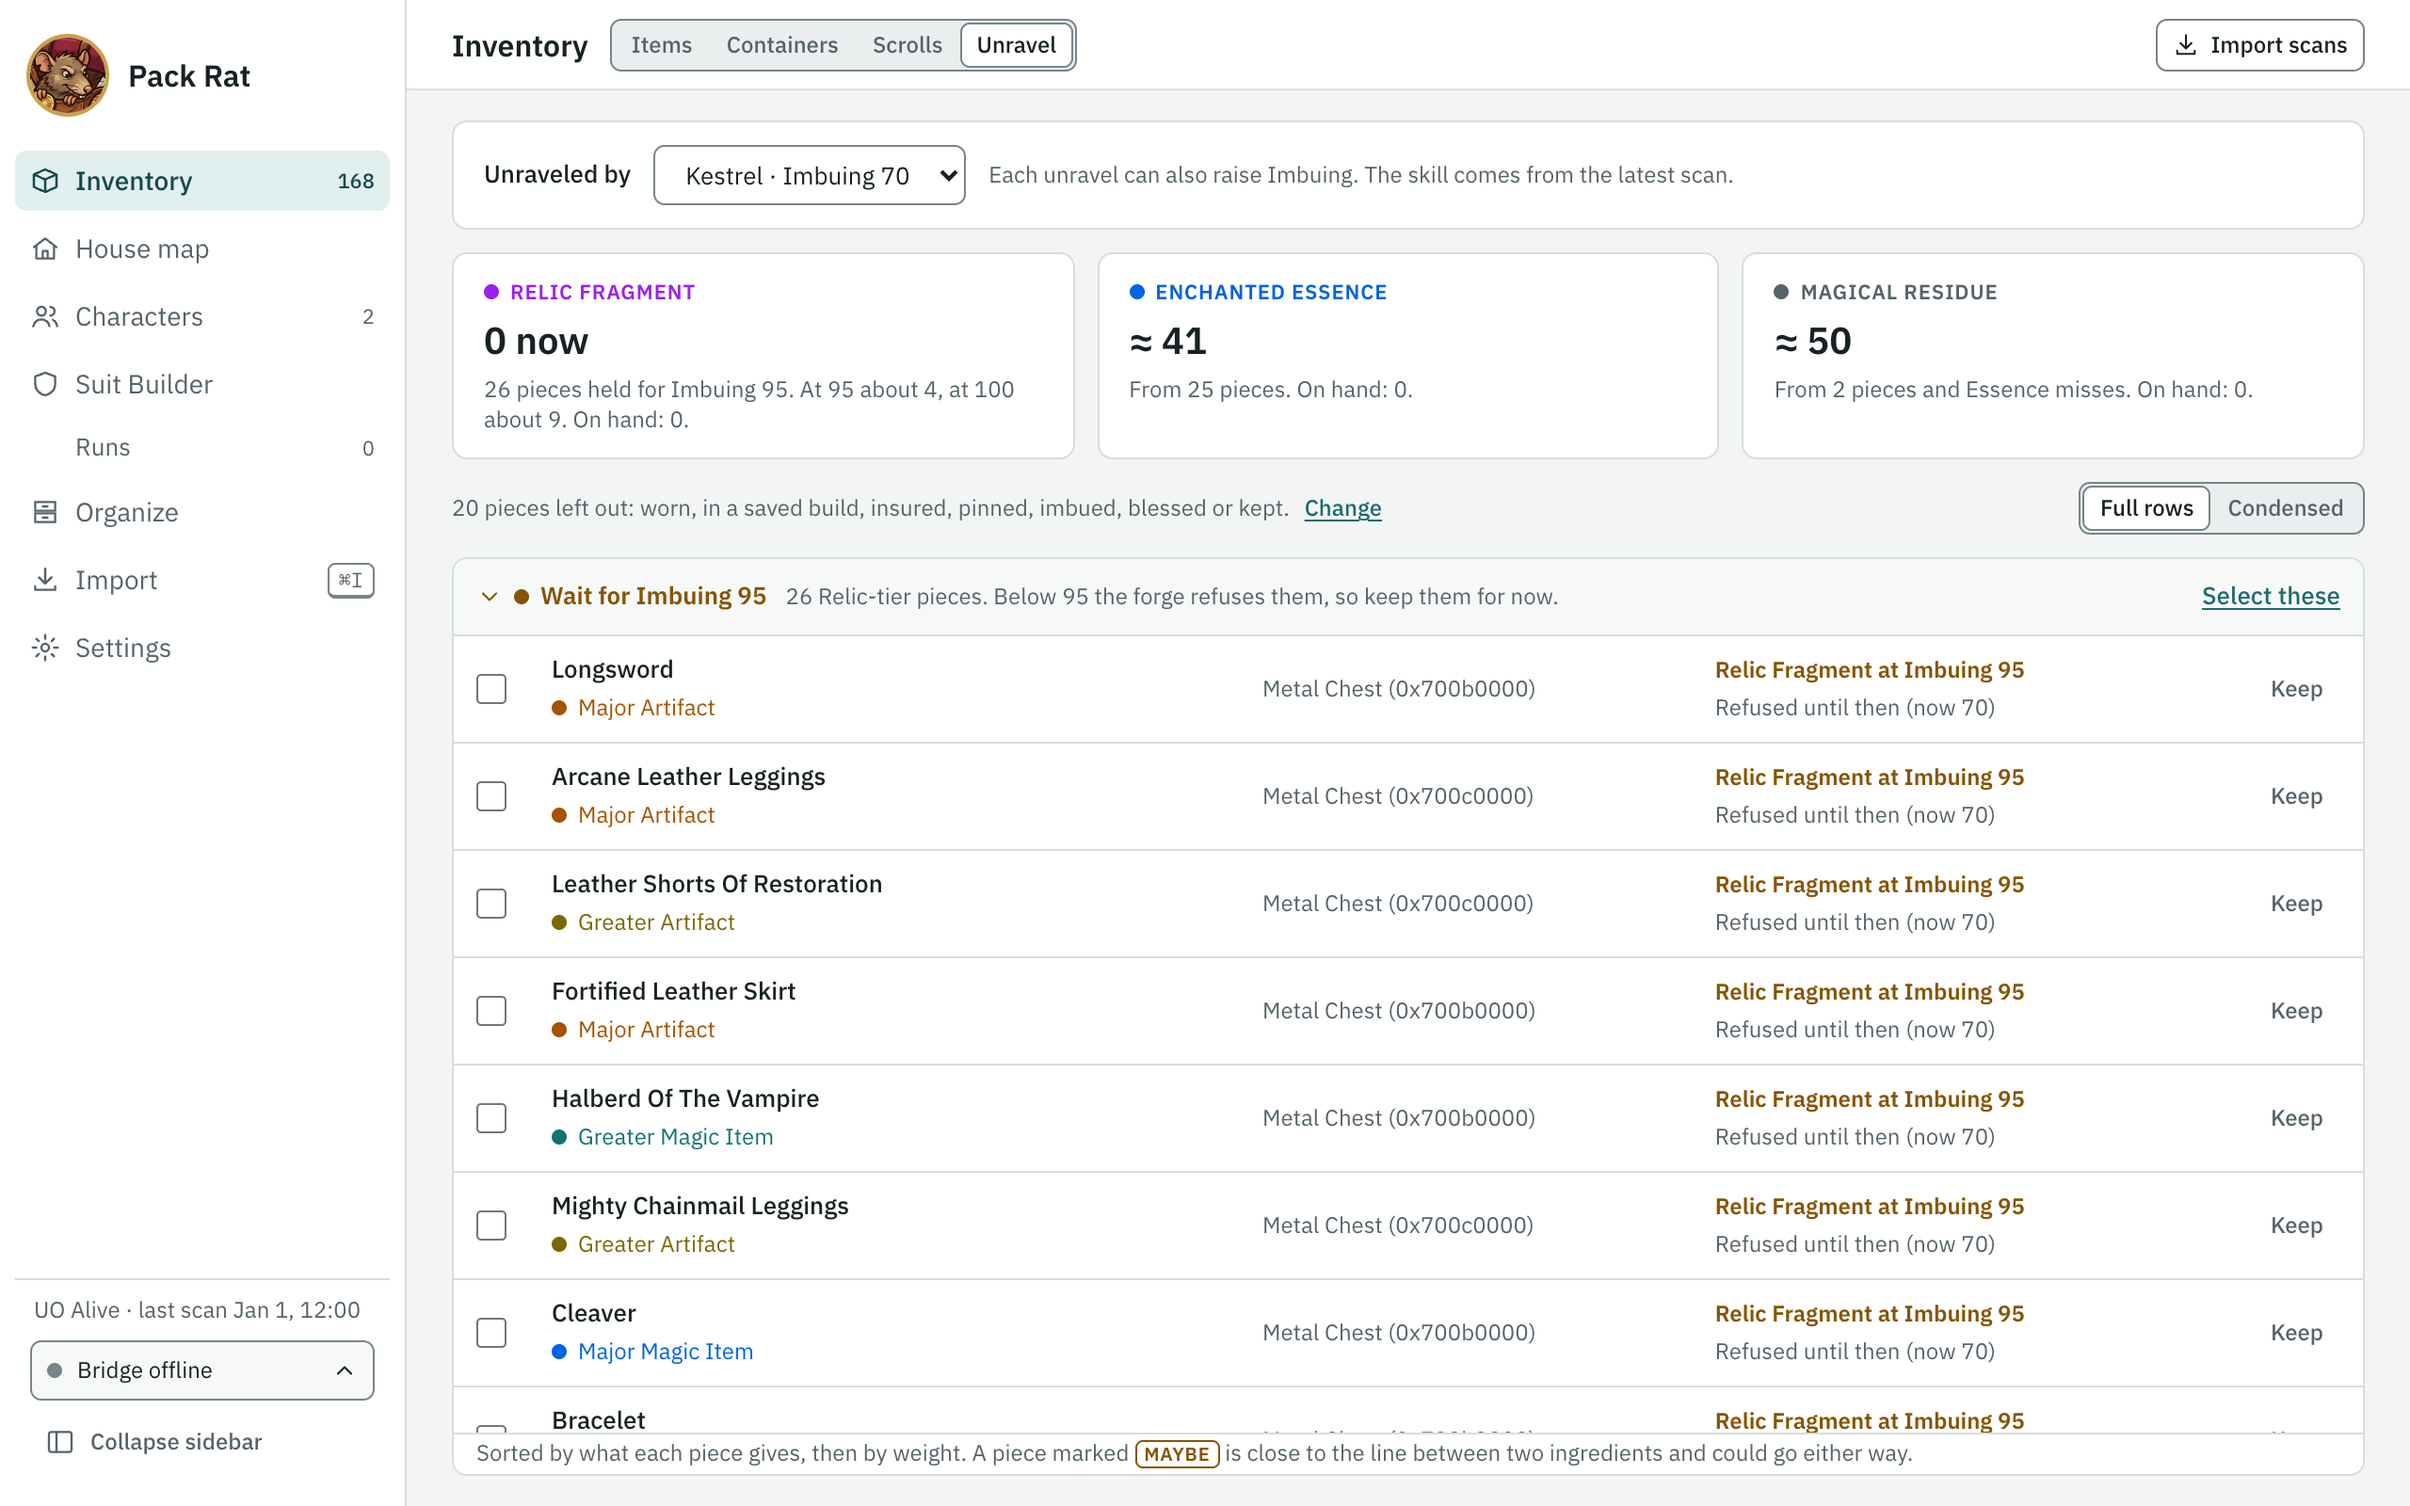
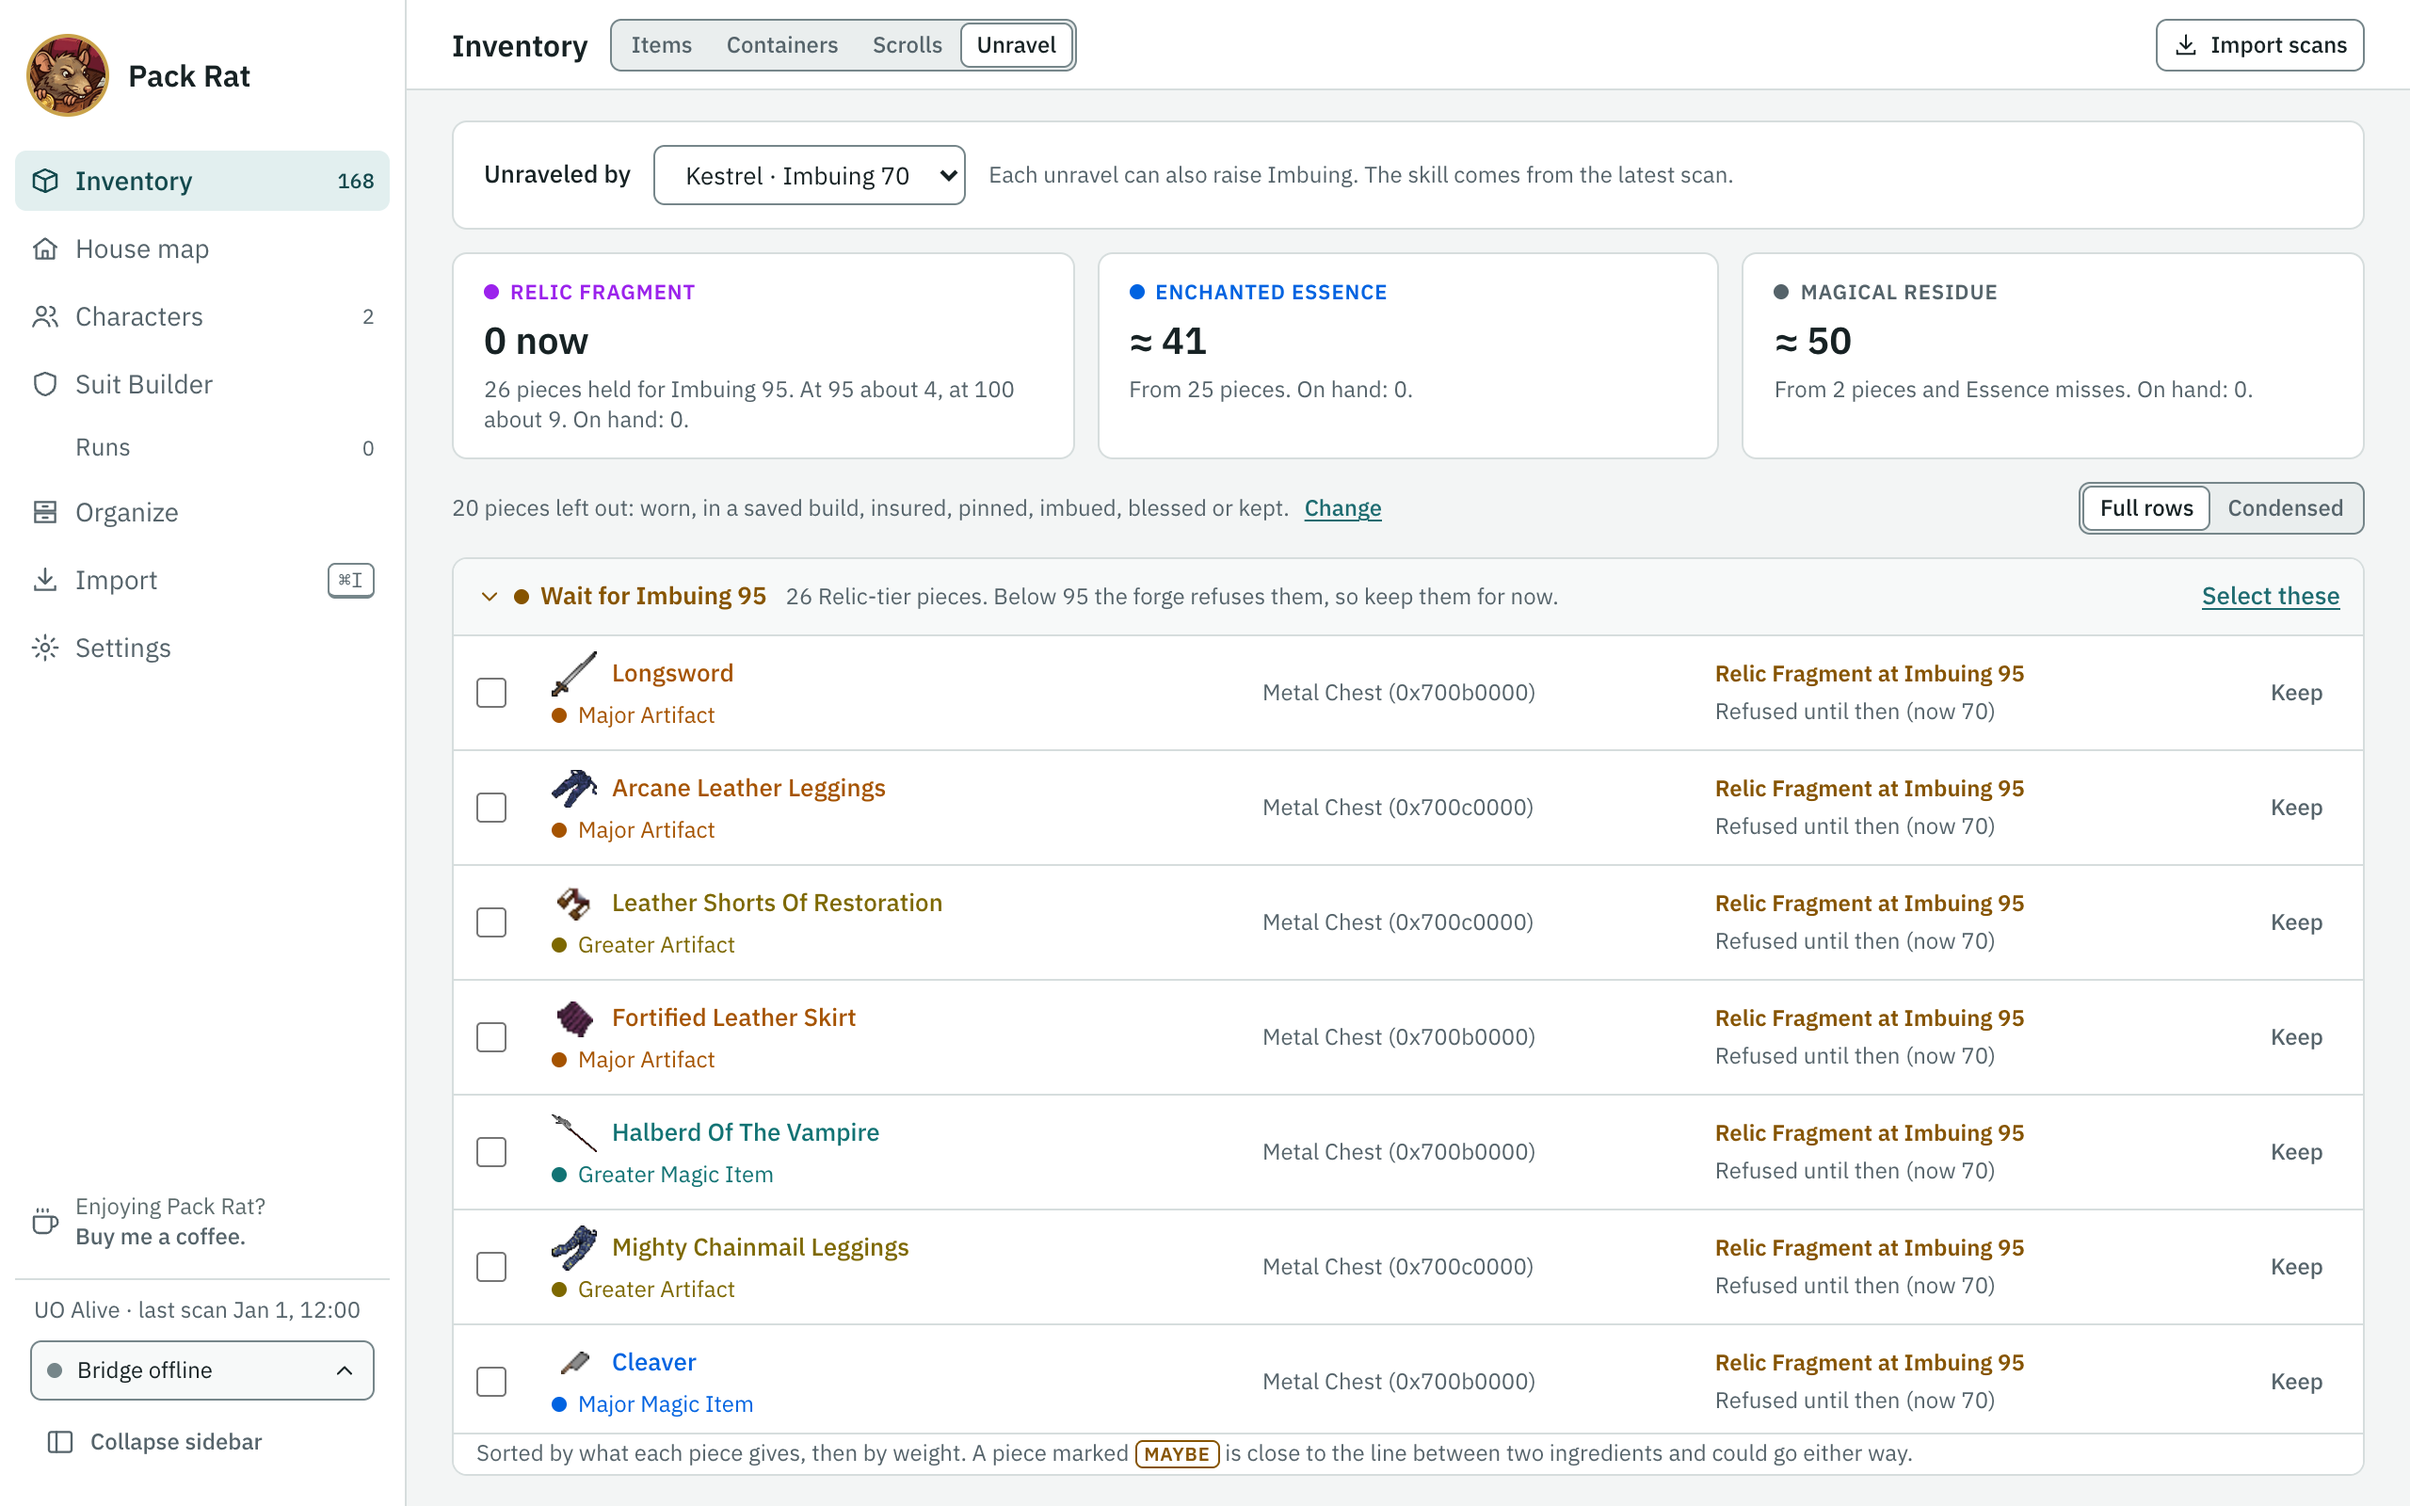
Describe 0.3.0 in the README and user guide (#502) (#523)

diff --git a/docs/user-guide.md b/docs/user-guide.md
@@ -96,11 +96,19 @@ Scans show up in **Inventory** within a few seconds; you don't have to press any
 
 ## Inventory and characters
 
-**Inventory** is one table of everything you own. Search by name, property, slayer or location, and narrow it with the filters. Click a row to see the item's properties and where it is.
+**Inventory** is one table of everything you own, each piece with its in-game icon and its name in its rarity's color (both drawn from your own client files). Search by name, property, tag, slayer, location or a container's Organize label, and narrow it with the filters:
 
-With the bridge running, **Highlight** marks an item and its container in game, **Go to** walks you to its chest, and **Grab** walks there and puts it in your backpack. To find a chest itself, use **Highlight in game** in its ⋯ menu under Inventory › Containers.
+- **Location** lists each character's backpack and bank, then your houses (from the House map) with their containers, a labeled container by its label.
+- **Type** keeps shields, two- or one-handed weapons, spellbooks, armor, jewelry or clothing.
+- **+ Filter › Property rule** picks any gear property by its shard name, with how many items in view carry it, and keeps items with at least, at most, exactly or anything but a value. An item without the property counts as 0, and the rule says so when that lets such items through ("Faster Casting ≠ -1" also keeps every reagent).
 
-**Characters** shows each character's sheet and paperdoll: resists, stats, worn gear and every property against the shard's cap.
+![A property rule being added in the Inventory: Faster Casting picked from the list, ≠ -1, and the note that items without it count as 0](images/inventory-filters.png)
+
+Click a row to see the item's properties and where it is.
+
+With the bridge running, **Highlight** marks an item and its container in game, **Go to** walks you to its chest, and **Grab** walks there and puts it in your backpack. To find a chest itself, use **Highlight in game** in its ⋯ menu under Inventory › Containers; that list has its own search and Kind and House filters.
+
+**Characters** shows each character's sheet: their paperdoll in the gear they wear, the worn pieces (click one for its detail), resists, stats and every property against the shard's cap. **Customize** tries another look on the figure. The paperdoll is drawn from your own client files (Pack Rat reads the 7.x files; **Settings › Game client** shows the UO folder it uses) and needs a TazUO scan made with the current scripts; otherwise it shows a gray stand-in and says why.
 
 The Inventory's **Unravel** view lists the pieces worth unraveling for imbuing ingredients, grouped by what each gives at your character's Imbuing skill, with a forecast of how much you'd get.
 
@@ -112,7 +120,11 @@ Pick the **Britannia** theme in **Settings › Theme** for parchment, brass fram
 
 Turn on the buffs and forms you fight with (Divine Fury, Reaper Form, Bless, potions…) and the search plans around them, so gear only supplies what they don't.
 
-**Manual** lets you build a suit by hand and see its totals, buffs included, then let the search fill the slots you left empty (with the settings in **Auto Build Settings**, which Manual opens too), save it as a run, or start from an automatic result.
+A result shows your character twice, in what they wear now and in the new suit, with **Customize** for both.
+
+**Manual** lets you build a suit by hand on a live paperdoll and see its totals, buffs included. Hover or arrow through the picker's rows to preview a piece on the figure, and turn on **Only what Auto would use** to list just the pieces an automatic build may pick. Then let the search fill the slots you left empty (with the settings in **Auto Build Settings**, which Manual opens too), save it as a run, or start from an automatic result.
+
+![Manual mode choosing a ring: the picker lists only what Auto would use, and the hovered ring is previewed on the live paperdoll](images/manual.png)
 
 ![A Suit Builder result: the best suit for the demo character, with each resist's before and after, what changes, and how each goal went](images/suit-builder.png)
 
@@ -132,7 +144,9 @@ Organize gives every item in your house a home.
 
 ### Rules
 
-Label the chests that are yours (Inventory › Containers, ⋯ › Label…), then add rules on the **Organize** screen. Start from a preset such as Magery reagents or Rings, or save the Inventory's current filters as a rule. Pick the containers each rule fills, in order: your labeled chests, or a bag inside one. While you edit a rule it says how many of your items it matches.
+Label the chests that are yours (Inventory › Containers, ⋯ › Label…), then add rules on the **Organize** screen. Start from a preset such as Magery reagents or Rings, or save the Inventory's current filters as a rule. The rule's filters are the Inventory's own (search, slot, type, kind, rarity, property rules, slayer, tags), without character, location or seen, so a rule keeps matching an item after it moves. Pick the containers each rule fills, in order: your labeled chests, or a bag inside one. While you edit a rule it says how many of your items it matches.
+
+![A new rule for shields without a Faster Casting penalty: Type Shield and Faster Casting ≠ -1, matching 4 items](images/organize-rule.png)
 
 Items go to the first rule they match; anything no rule takes stays put, or goes to the container you pick for everything else.
 
@@ -219,6 +233,7 @@ The app sends nothing anywhere except the update check, which asks GitHub for th
 - **Pack Rat says my game scripts write to another folder.** Stop any running Pack Rat scripts and reinstall the scripts from **Settings**; they will then write to the folder Pack Rat reads.
 - **Pack Rat says a script is still running.** Stop it, then try again. TazUO: type `-stopall` in the game's chat and wait for **"No scripts are currently running"**. Razor Enhanced: in its Scripting tab, select each running Pack Rat script and press Stop.
 - **The buttons say the bridge is offline.** Start `packrat-bridge.py` in game and wait until the app shows **Bridge ready** with your character's name.
+- **The paperdoll is a gray stand-in.** Reinstall the scripts from **Settings** and rescan with TazUO, which records your character's look. If it says it can't find or read your client files, choose your UO folder in **Settings › Game client**.
 - **A chest didn't get scanned.** The scanner only reads chests close to you that it can open; stand closer and run it again. A container that won't open keeps what was last scanned in it.
 
 Questions and ideas: [Discussions](https://github.com/gunn4r/uo-pack-rat/discussions). Bugs: [Issues](https://github.com/gunn4r/uo-pack-rat/issues). Describe what you did and what you saw, and don't attach a scan file without reading it first.

diff --git a/README.md b/README.md
@@ -14,21 +14,21 @@ Pack Rat is a free desktop app for Ultima Online players. It keeps a list of eve
 
 ### Find anything you own
 
-Search every character's gear, bags, chests and bank in one table, by name, property, slayer or location. Click an item to see its properties and where it is. With the in-game bridge running, **Highlight** marks it in game, **Go to** walks you to its chest, and **Grab** puts it in your backpack.
+Search every character's gear, bags, chests and bank in one table, each piece with its in-game icon and its name in its rarity's color. Narrow it by property (at least, at most, exactly or not), type, slot, slayer, house or Organize label. Click an item to see its properties and where it is. With the in-game bridge running, **Highlight** marks it in game, **Go to** walks you to its chest, and **Grab** puts it in your backpack.
 
 ![Typing "hit chance" in the Inventory search narrows the list to matching pieces, then a click opens one piece's details](docs/images/inventory-search.gif)
 
 ### See each character at a glance
 
-A character sheet with resists, stats, worn gear and every property against the shard's cap.
+A character sheet with your character's paperdoll in the gear they wear, resists, stats and every property against the shard's cap.
 
-![Dorran's character sheet: five resist cards, attributes, the worn gear slots and the properties table](docs/images/characters.png)
+![Dorran's character sheet: resist cards, attributes, the paperdoll in the worn gear, each piece with its icon](docs/images/characters.png)
 
 ### Build your best suit
 
-Pick a template such as Melee, Caster or Tank, or set your own goals, and the Suit Builder searches everything you own for the best suit. It plans around the buffs you fight with, shows what changes slot by slot, and keeps runs you can compare. You can also build a suit by hand and let it fill the gaps.
+Pick a template such as Melee, Caster or Tank, or set your own goals, and the Suit Builder searches everything you own for the best suit. It plans around the buffs you fight with, shows your character in what they wear now beside the new suit, and keeps runs you can compare. You can also build a suit by hand on a live paperdoll and let it fill the gaps.
 
-![Pressing Build on the Suit Builder: a proven-best suit for Dorran appears with each resist's before and after, then the slot-by-slot plan](docs/images/suit-builder.gif)
+![Pressing Build on the Suit Builder: a proven-best suit for Dorran appears with each resist's before and after, then the plan: what is worn now beside each new piece](docs/images/suit-builder.gif)
 
 ### Map your house
 

diff --git a/changelog.d/502-readme-refresh.md b/changelog.d/502-readme-refresh.md
@@ -1,0 +1,2 @@
+- The README and the user guide describe this release: item icons and rarity colors, the Inventory's Location, Type and property-rule filters, the paperdoll on the character sheet and in the Suit Builder, Manual's live preview and Only what Auto would use. Every screenshot is new, with three more for the property rule, an Organize rule and Manual.
+- For contributors: `npm run readme:shots` builds the page before it captures, gives the demo characters a few skills, and links the client's facet maps (read only) so the House map shows its world-map thumbnail.
